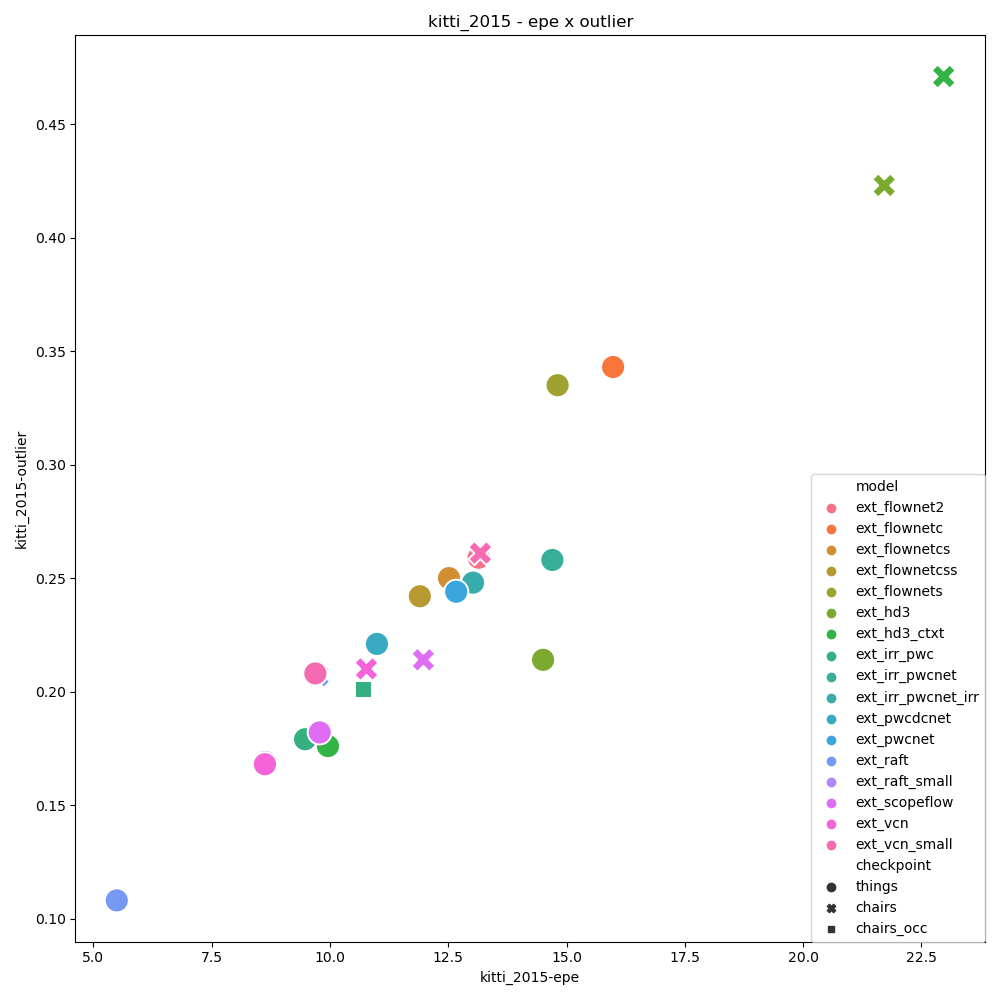
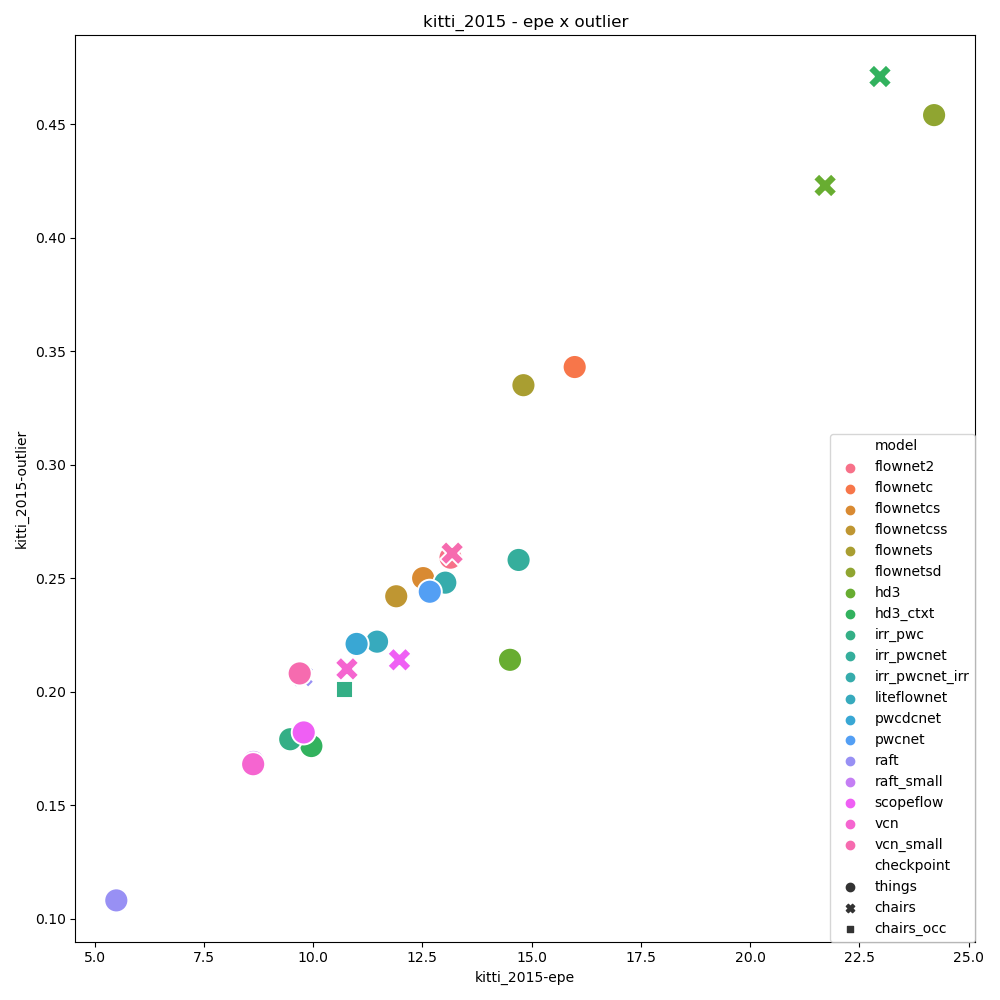
Update docs to remove external models

diff --git a/docs/source/models/models_list.rst b/docs/source/models/models_list.rst
@@ -4,27 +4,13 @@ List of available models
 
 Below is a list and a brief explanation about the models currently available on PTLFlow.
 
-.. _external-models:
-
-External models
-===============
-
-There are two types of implementations for the models. "*Internal*" models are implemented
-for PTLFlow and they should work with all stages of the platform. "*External*" models, on the other hand,
-are mostly taken from external sources and lightly adapted for being compatible with the platform.
-External models should work for inference and validation inside PTLFlow. However, the training
-is not guaranteed to work. External models are placed in a separated folder called ``models/external``.
-They are also identified by the ``ext_`` prefix in their names.
-
-  Obs: at the moment, only external models are available.
-
 List of models
 ==============
 
 Flownet
 -------
 
-`[source code] <https://github.com/hmorimitsu/ptlflow/tree/main/ptlflow/models/external/flownet>`__
+`[source code] <https://github.com/hmorimitsu/ptlflow/tree/main/ptlflow/models/flownet>`__
 
 - Papers:
 
@@ -34,104 +20,104 @@ Flownet
 
 - Reference code: `https://github.com/NVIDIA/flownet2-pytorch <https://github.com/NVIDIA/flownet2-pytorch>`_
 
-- Model names: ``ext_flownets``, ``ext_flownetc``, ``ext_flownet2``, ``ext_flownetcs``, ``ext_flownetcss``, ``ext_flownetsd``
+- Model names: ``flownets``, ``flownetc``, ``flownet2``, ``flownetcs``, ``flownetcss``, ``flownetsd``
 
 HD3
 ---
 
-`[source code] <https://github.com/hmorimitsu/ptlflow/tree/main/ptlflow/models/external/hd3>`__
+`[source code] <https://github.com/hmorimitsu/ptlflow/tree/main/ptlflow/models/hd3>`__
 
 - Paper: **Hierarchical Discrete Distribution Decomposition for Match Density Estimation** - `https://arxiv.org/abs/1812.06264 <https://arxiv.org/abs/1812.06264>`_
 
 - Reference code: `https://github.com/ucbdrive/hd3 <https://github.com/ucbdrive/hd3>`_
 
-- Model names: ``ext_hd3``, ``ext_hd3_ctxt``
+- Model names: ``hd3``, ``hd3_ctxt``
 
 
 IRR
 ---
 
-`[source code] <https://github.com/hmorimitsu/ptlflow/tree/main/ptlflow/models/external/irr>`__
+`[source code] <https://github.com/hmorimitsu/ptlflow/tree/main/ptlflow/models/irr>`__
 
 - Paper: **Iterative Residual Refinement for Joint Optical Flow and Occlusion Estimation** - `https://arxiv.org/abs/1904.05290 <https://arxiv.org/abs/1904.05290>`_
 
 - Reference code: `https://github.com/visinf/irr <https://github.com/visinf/irr>`_
 
-- Model names: ``ext_irr_pwc``, ``ext_irr_pwcnet``, ``ext_irr_pwcnet_irr``
+- Model names: ``irr_pwc``, ``irr_pwcnet``, ``irr_pwcnet_irr``
 
 LiteFlowNet
 -----------
 
-`[source code] <https://github.com/hmorimitsu/ptlflow/tree/main/ptlflow/models/external/liteflownet>`__
+`[source code] <https://github.com/hmorimitsu/ptlflow/tree/main/ptlflow/models/liteflownet>`__
 
 - Paper: **LiteFlowNet: A Lightweight Convolutional Neural Network for Optical Flow Estimation** - `https://arxiv.org/abs/1805.07036 <https://arxiv.org/abs/1805.07036>`_
 
 - Reference code: `https://github.com/twhui/LiteFlowNet <https://github.com/twhui/LiteFlowNet>`__
 
-- Model name: ``ext_liteflownet``
+- Model name: ``liteflownet``
 
 LiteFlowNet2
 ------------
 
-`[source code] <https://github.com/hmorimitsu/ptlflow/tree/main/ptlflow/models/external/liteflownet>`__
+`[source code] <https://github.com/hmorimitsu/ptlflow/tree/main/ptlflow/models/liteflownet>`__
 
 - Paper: **A Lightweight Optical Flow CNN - Revisiting Data Fidelity and Regularization** - `https://ieeexplore.ieee.org/document/9018073 <https://ieeexplore.ieee.org/document/9018073>`_
 
 - Reference code: `https://github.com/twhui/LiteFlowNet2 <https://github.com/twhui/LiteFlowNet2>`__
 
-- Model names: ``ext_liteflownet2``, ``ext_liteflownet2_pseudoreg``
+- Model names: ``liteflownet2``, ``liteflownet2_pseudoreg``
 
 LiteFlowNet3
 ------------
 
-`[source code] <https://github.com/hmorimitsu/ptlflow/tree/main/ptlflow/models/external/liteflownet>`__
+`[source code] <https://github.com/hmorimitsu/ptlflow/tree/main/ptlflow/models/liteflownet>`__
 
 - Paper: **LiteFlowNet3: Resolving Correspondence Ambiguity for More Accurate Optical Flow Estimation** - `https://arxiv.org/abs/2007.09319 <https://arxiv.org/abs/2007.09319>`_
 
 - Reference code: `https://github.com/twhui/LiteFlowNet <https://github.com/twhui/LiteFlowNet3>`__
 
-- Model names: ``ext_liteflownet3``, ``ext_liteflownet3_pseudoreg``, ``ext_liteflownet3s``, ``ext_liteflownet3s_pseudoreg``
+- Model names: ``liteflownet3``, ``liteflownet3_pseudoreg``, ``liteflownet3s``, ``liteflownet3s_pseudoreg``
 
 PWCNet
 ------
 
-`[source code] <https://github.com/hmorimitsu/ptlflow/tree/main/ptlflow/models/external/pwcnet>`__
+`[source code] <https://github.com/hmorimitsu/ptlflow/tree/main/ptlflow/models/pwcnet>`__
 
 - Paper: **PWC-Net: CNNs for Optical Flow Using Pyramid, Warping, and Cost Volume** - `https://arxiv.org/abs/1709.02371 <https://arxiv.org/abs/1709.02371>`_
 
 - Reference code: `https://github.com/NVlabs/PWC-Net <https://github.com/NVlabs/PWC-Net>`_
 
-- Model names: ``ext_pwcnet``, ``ext_pwcdcnet``
+- Model names: ``pwcnet``, ``pwcdcnet``
 
 RAFT
 ----
 
-`[source code] <https://github.com/hmorimitsu/ptlflow/tree/main/ptlflow/models/external/raft>`__
+`[source code] <https://github.com/hmorimitsu/ptlflow/tree/main/ptlflow/models/raft>`__
 
 - Paper: **RAFT: Recurrent All-Pairs Field Transforms for Optical Flow** - `https://arxiv.org/abs/2003.12039 <https://arxiv.org/abs/2003.12039>`_
 
 - Reference code: `https://github.com/princeton-vl/RAFT <https://github.com/princeton-vl/RAFT>`_
 
-- Model names: ``ext_raft``, ``ext_raft_small``
+- Model names: ``raft``, ``raft_small``
 
 ScopeFlow
 ---------
 
-`[source code] <https://github.com/hmorimitsu/ptlflow/tree/main/ptlflow/models/external/scopeflow>`__
+`[source code] <https://github.com/hmorimitsu/ptlflow/tree/main/ptlflow/models/scopeflow>`__
 
 - Paper: **ScopeFlow: Dynamic Scene Scoping for Optical Flow** - `https://arxiv.org/abs/2002.10770 <https://arxiv.org/abs/2002.10770>`_
 
 - Reference code: `https://github.com/avirambh/ScopeFlow <https://github.com/avirambh/ScopeFlow>`_
 
-- Model names: ``ext_scopeflow``
+- Model names: ``scopeflow``
 
 VCN
 ---
 
-`[source code] <https://github.com/hmorimitsu/ptlflow/tree/main/ptlflow/models/external/vcn>`__
+`[source code] <https://github.com/hmorimitsu/ptlflow/tree/main/ptlflow/models/vcn>`__
 
 - Paper: **Volumetric Correspondence Networks for Optical Flow** - `https://papers.nips.cc/paper/2019/file/bbf94b34eb32268ada57a3be5062fe7d-Paper.pdf <https://papers.nips.cc/paper/2019/file/bbf94b34eb32268ada57a3be5062fe7d-Paper.pdf>`_
 
 - Reference code: `https://github.com/gengshan-y/VCN <https://github.com/gengshan-y/VCN>`_
 
-- Model names: ``ext_vcn``, ``ext_vcn_small``
+- Model names: ``vcn``, ``vcn_small``

diff --git a/docs/source/starting/training.rst b/docs/source/starting/training.rst
@@ -4,9 +4,24 @@
 Train an existing model
 =======================
 
-Models designed for PTLFlow (also called "internal" models) can be seamlessly trained inside the platform.
-"External" models, on the other hand, although should also be able to be trained, are not guaranteed to work
-(read more about :ref:`external-models`).
+Introduction (important, please read it!)
+=========================================
+
+Most models in PTLFlow support training (see :ref:`trainable-models`). The instructions below
+will show how to select a model and train it inside PTLFlow.
+
+That being said, at the moment, most models just use the default training routine provided by the ``BaseModel``.
+Therefore, there is no guarantee that the models trained in this platform will provide results
+close to the original ones. In fact, it is possible that some models will not converge with these
+settings.
+
+I would like to, at some point, be able to test and configure the correct training settings
+for each model. However, at the moment, I do not have the resources for this. If you have successfully
+trained some model inside PTLFlow, please feel free to contribute your results by opening an issue on 
+[the GitHub repository](https://github.com/hmorimitsu/ptlflow).
+
+How to train a model
+====================
 
 You can use the script `train.py <https://github.com/hmorimitsu/ptlflow/tree/master/train.py>`_
 Read :ref:`initial-scripts` to know how to download it.
@@ -20,7 +35,7 @@ Once you have both files, training a model from scratch should be as simple as r
 
 .. code-block:: bash
 
-    python train.py ext_raft_small --train_dataset chairs-train --gpus 1
+    python train.py raft_small --train_dataset chairs-train --gpus 1
 
 This code would train a RAFT Small model on the train split of the FlyingChairs dataset.
 The ``--gpus`` option specifies one GPU will be used for training (see the
@@ -31,7 +46,7 @@ If you want to have more control over the training hyperparameters, you can add 
 
 .. code-block:: bash
 
-    python train.py ext_raft_small --train_dataset chairs-train --lr 0.0001 --train_batch_size 4 --max_epochs 5 --gpus 1
+    python train.py raft_small --train_dataset chairs-train --lr 0.0001 --train_batch_size 4 --max_epochs 5 --gpus 1
 
 You can see all the available options with:
 
@@ -67,7 +82,7 @@ To do so, just use the argument ``--resume_from_checkpoint`` giving the path to 
 
 .. code-block:: bash
 
-    python train.py ext_raft_small --train_dataset chairs-train --gpus 1 --resume_from_checkpoint /path/to/train_checkpoint
+    python train.py raft_small --train_dataset chairs-train --gpus 1 --resume_from_checkpoint /path/to/train_checkpoint
 
 .. _finetuning:
 
@@ -82,7 +97,7 @@ an additional argument ``--clear_train_state``, which will make sure that only t
 
 .. code-block:: bash
 
-    python train.py ext_raft_small --train_dataset things-train --gpus 1 --resume_from_checkpoint /path/to/train_checkpoint --clear_train_state
+    python train.py raft_small --train_dataset things-train --gpus 1 --resume_from_checkpoint /path/to/train_checkpoint --clear_train_state
 
 Finetuning from pretrained weights
 ==================================
@@ -93,7 +108,7 @@ For this, just use ``--pretrained_ckpt`` instead of ``--resume_from_checkpoint``
 
 .. code-block:: bash
 
-    python train.py ext_raft_small --train_dataset sintel-train --gpus 1 --pretrained_ckpt things --clear_train_state
+    python train.py raft_small --train_dataset sintel-train --gpus 1 --pretrained_ckpt things --clear_train_state
 
 .. _saved-checkpoints:
 
@@ -114,6 +129,8 @@ By default, 3 checkpoints will be saved at the end of each epoch:
   the previous "best" checkpoint. By default, ``metric-name`` will be the EPE (End-Point-Error) value obtained from the
   first dataset specified in ``--val_dataset`` (if not specified, it will be the trainval split of the Sintel Final dataset by default).
   You can check :ref:`train-val-dataset` for more details about the ``val_dataset`` string options.
+
+.. _trainable-models:
 
 Trainable models
 ================

diff --git a/docs/source/starting/validation.rst b/docs/source/starting/validation.rst
@@ -11,9 +11,9 @@ Once you have the script, you can run a validation as follows:
 
 .. code-block:: bash
 
-    python validate.py ext_raft_small --pretrained_ckpt things
+    python validate.py raft_small --pretrained_ckpt things
 
-This will use the ``ext_raft_small`` model loaded with the weights trained on the FlyingThings3D dataset.
+This will use the ``raft_small`` model loaded with the weights trained on the FlyingThings3D dataset.
 
 By default, the validation will be run on the following datasets:
 
@@ -29,7 +29,7 @@ If you want to validate on different datasets, you can do so by using the argume
 
 .. code-block:: bash
 
-    python validate.py ext_raft_small --pretrained_ckpt things --val_dataset chairs-val+sintel-clean-val
+    python validate.py raft_small --pretrained_ckpt things --val_dataset chairs-val+sintel-clean-val
 
 would use the following two datasets for the validation:
 
@@ -49,7 +49,7 @@ If you have a local checkpoint which is not one of the pretrained ones, you can 
 
 .. code-block:: bash
 
-    python validate.py ext_raft_small --pretrained_ckpt /path/to/checkpoint
+    python validate.py raft_small --pretrained_ckpt /path/to/checkpoint
 
 Visualizing the predictions during validation
 =============================================
@@ -58,7 +58,7 @@ You can use the argument ``--show`` to have the images and predictions displayed
 
 .. code-block:: bash
 
-    python validate.py ext_raft_small --pretrained_ckpt things --show
+    python validate.py raft_small --pretrained_ckpt things --show
 
 Saving results to disk
 ======================
@@ -68,7 +68,7 @@ predictions that the selected model may generate. The structure of the outputs s
 
 .. code-block:: bash
 
-    python validate.py ext_raft_small --pretrained_ckpt things --write_outputs
+    python validate.py raft_small --pretrained_ckpt things --write_outputs
 
 Viewing the validation metrics
 ==============================

diff --git a/docs/source/starting/inference.rst b/docs/source/starting/inference.rst
@@ -13,13 +13,13 @@ Using this script, you can perform the same operation as in the example above by
 
 .. code-block:: bash
 
-    python infer.py ext_raft_small --pretrained_ckpt things --input_path /path/to/img1.jpg /path/to/img2.jpg --show
+    python infer.py raft_small --pretrained_ckpt things --input_path /path/to/img1.jpg /path/to/img2.jpg --show
 
 Note that you can also give a path to a local checkpoint file to ``--pretrained_ckpt`` as well, like:
 
 .. code-block:: bash
 
-    python infer.py ext_raft_small --pretrained_ckpt /path/to/checkpoint --input_path /path/to/img1.jpg /path/to/img2.jpg --show
+    python infer.py raft_small --pretrained_ckpt /path/to/checkpoint --input_path /path/to/img1.jpg /path/to/img2.jpg --show
 
 You can see all the available options of this script with:
 
@@ -51,7 +51,7 @@ The code below shows a way to do this:
 
     # Get an optical flow model. As as example, we will use RAFT Small
     # with the weights pretrained on the FlyingThings3D dataset
-    model = ptlflow.get_model('ext_raft_small', pretrained_ckpt='things')
+    model = ptlflow.get_model('raft_small', pretrained_ckpt='things')
 
     # Load the images
     images = [

diff --git a/docs/source/starting/installation.rst b/docs/source/starting/installation.rst
@@ -50,13 +50,13 @@ And you will see an error message showing you a list of valid model names.
 Getting the names of pretrained checkpoints of a model
 ------------------------------------------------------
 
-Suppose you chose a model, let's say ``ext_raft_small``, but you do not know which pretrained checkpoints
+Suppose you chose a model, let's say ``raft_small``, but you do not know which pretrained checkpoints
 are available for it. You can find that out by using one of the initial scripts and passing any invalid
 checkpoint name to ``--pretrained_ckpt`` as follows:
 
 .. code-block:: bash
 
-    python validate.py ext_raft_small --pretrained_ckpt which
+    python validate.py raft_small --pretrained_ckpt which
 
 This will show an error message with a list of the available checkpoint names.
 
